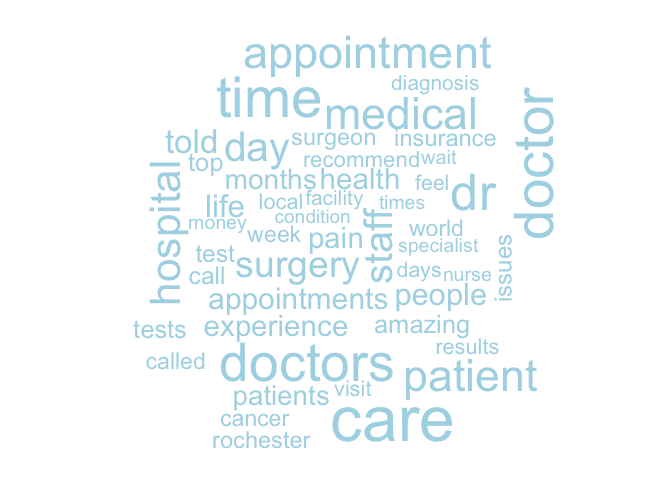
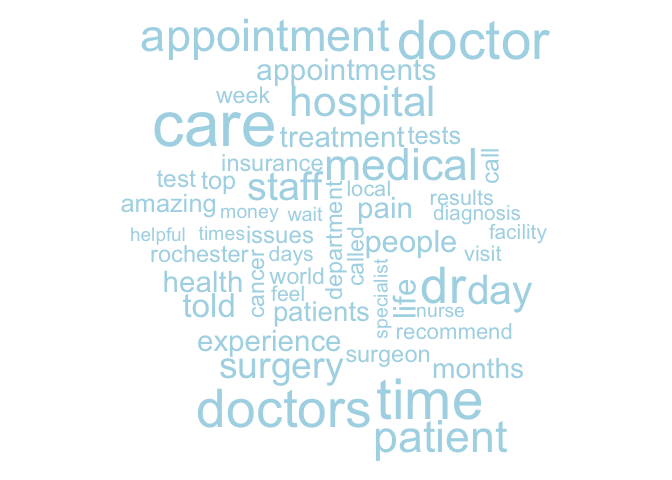
Tuesday Night Push

Changed region(s): [[0.1875, 0.0312, 0.8438, 0.9688]]

diff --git a/Mayo-Clinic-Yelp-Review-Text-Analysis.md b/Mayo-Clinic-Yelp-Review-Text-Analysis.md
@@ -715,12 +715,6 @@ wordcloud(
 )
 ```
 
-    ## Warning in wordcloud(words = data7$word, freq = data7$n, max.words = 50, :
-    ## department could not be fit on page. It will not be plotted.
-
-    ## Warning in wordcloud(words = data7$word, freq = data7$n, max.words = 50, :
-    ## treatment could not be fit on page. It will not be plotted.
-
 ![](Mayo-Clinic-Yelp-Review-Text-Analysis_files/figure-gfm/unnamed-chunk-23-1.png)<!-- -->
 
 The wordcloud above shows the overall patient word count from the 228
@@ -778,13 +772,10 @@ wordcloud(
     ## appointment could not be fit on page. It will not be plotted.
 
     ## Warning in wordcloud(words = data_A1T$word, freq = data_A1T$n, max.words = 50, :
-    ## medical could not be fit on page. It will not be plotted.
+    ## department could not be fit on page. It will not be plotted.
 
     ## Warning in wordcloud(words = data_A1T$word, freq = data_A1T$n, max.words = 50, :
-    ## hospital could not be fit on page. It will not be plotted.
-
-    ## Warning in wordcloud(words = data_A1T$word, freq = data_A1T$n, max.words = 50, :
-    ## care could not be fit on page. It will not be plotted.
+    ## pain could not be fit on page. It will not be plotted.
 
 ![](Mayo-Clinic-Yelp-Review-Text-Analysis_files/figure-gfm/unnamed-chunk-25-1.png)<!-- -->
 
@@ -868,6 +859,9 @@ ggplot(sentiment_data_loughran, aes(x= sentiment2, y=n)) +
 Even more interesting.
 
 ## Limitations
+
+Depending on the dictionary, there could be a diverse set of insights
+from patients reviews.
 
 ## Conclusions
 
